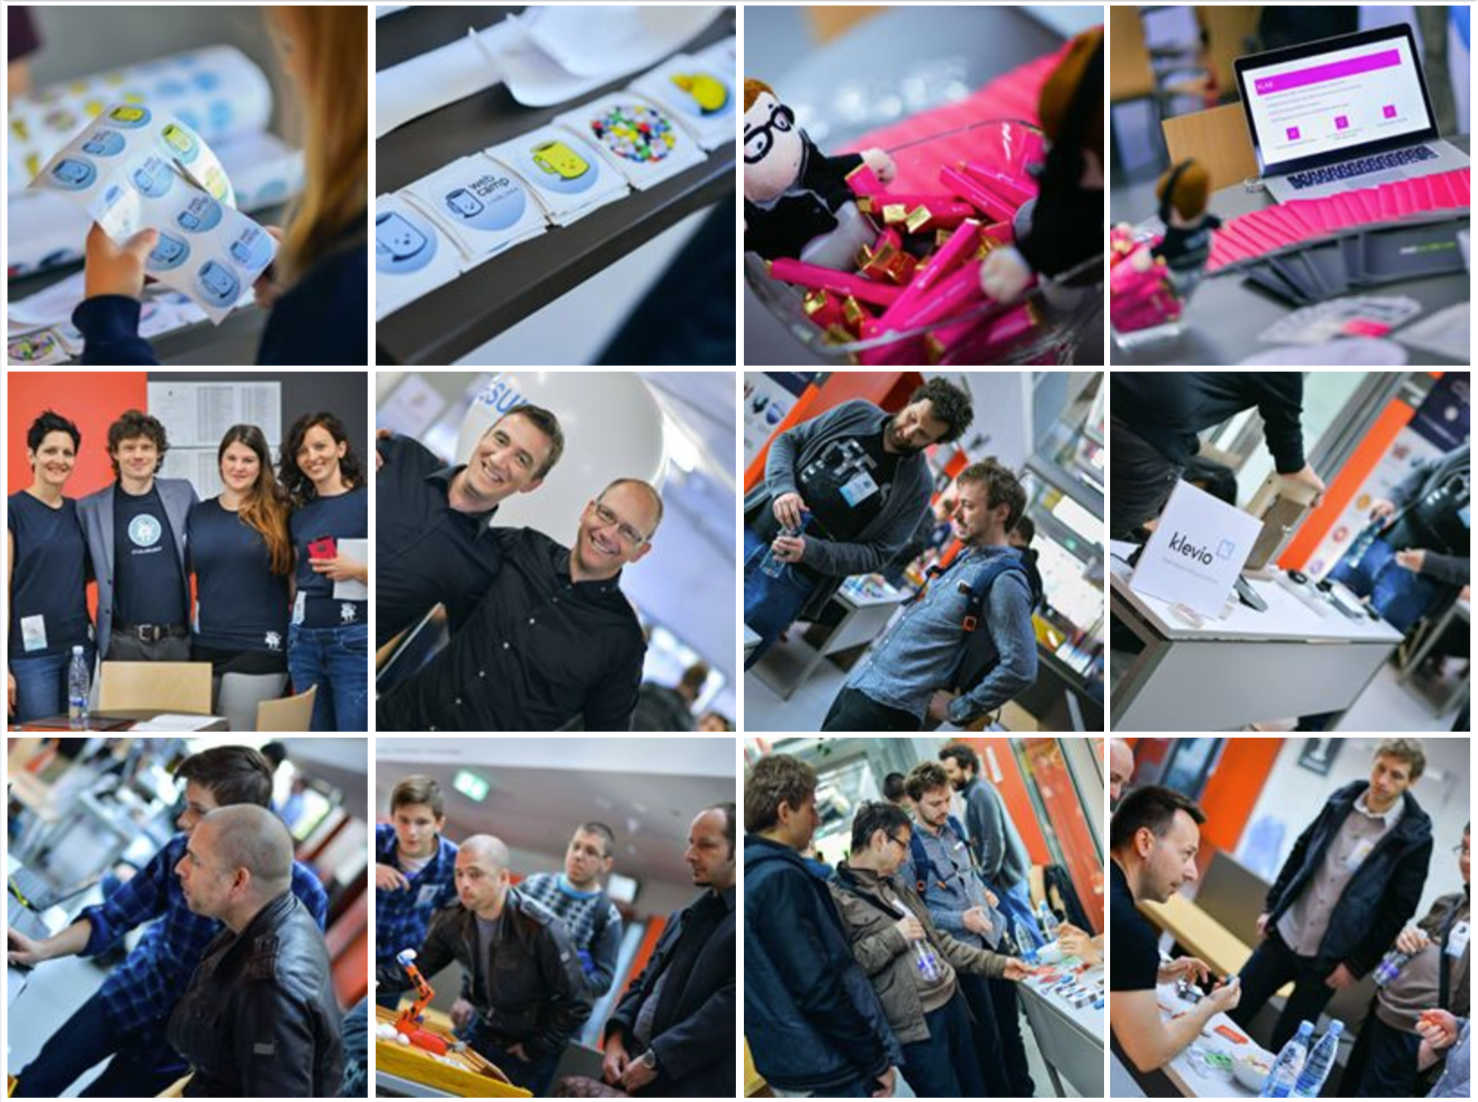
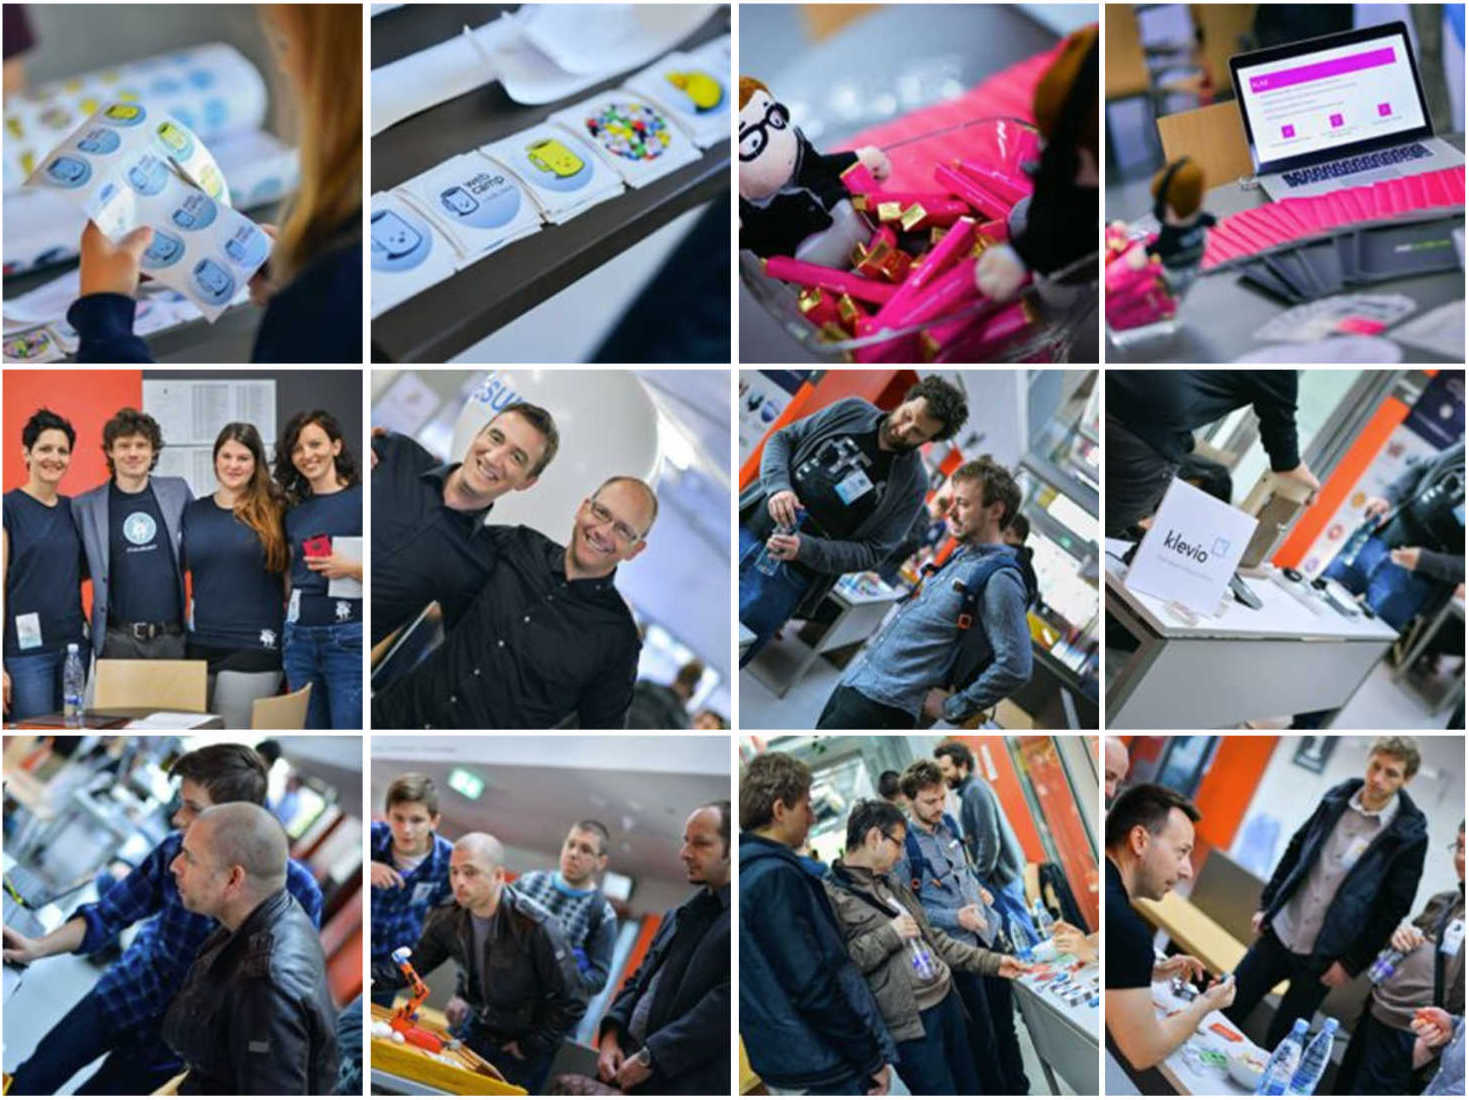
Updated pic and added link for Hana

diff --git a/templates/contents.html b/templates/contents.html
@@ -97,7 +97,7 @@
     <div class="row align-spaced section-team" id="gallery">
         <div class="small-12 column text-center">
             <h1>WebCamp 2017 in pictures</h1>
-            <p>Thanks again everyone for coming and making this year's WebCamp amazing! And special thanks to Hana Jošić (http://hanajosic.si/) for making these photos to help us remember this special day!</p>
+            <p>Thanks again everyone for coming and making this year's WebCamp amazing! And special thanks to <a href="http://hanajosic.si/" target="_blank">Hana Jošić</a> for making these photos to help us remember this special day!</p>
             <a href="https://www.facebook.com/pg/webcamp.si/photos/?tab=album&album_id=1282861225161424" target="_blank"><img src="{{ '/images/webcamp-photos.jpg'|asseturl }}"/></a>
         </div>
     </div>
